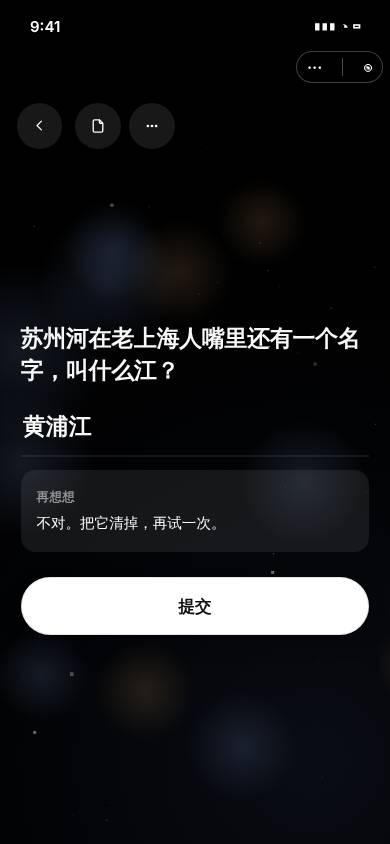
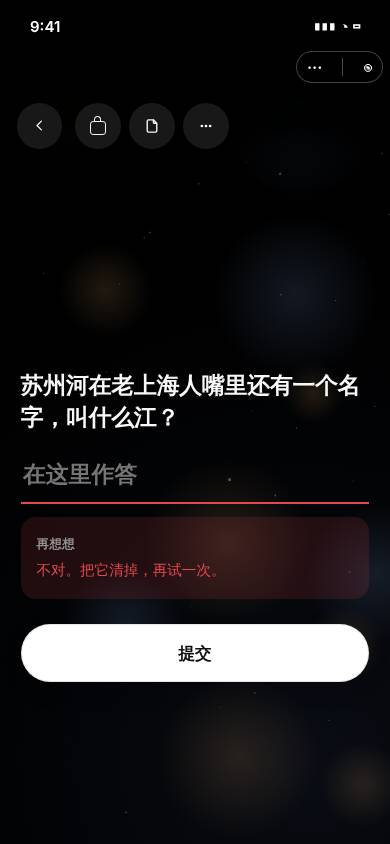
docs: P-10 进阶打字题答错截图按修复后提交重拍
Claude-Session: https://claude.ai/code/session_01SUD7bN3eSi4HuTrjhLm6Ka

diff --git a/docs/delivery/walk-fix-20261102/l1-play/RIG-NOTES.md b/docs/delivery/walk-fix-20261102/l1-play/RIG-NOTES.md
@@ -127,3 +127,7 @@ With no ending, playing and finishing the station creates no route session. The 
 - Real-device taps, the native map, GPS and timing of animations. P-13's pulsing is judged from two still frames only.
 - P-35 was seen as a toast in the rig's `showToast` rendering. P-08 and P-35 were run only with one player per session.
 - 「我到了」 self check-in (club sessions have no gather lat/lng, a known issue) was not used. The leader started without arrivals.
+
+P-10 re-shoot: `P-10-after-2.jpg` and `P-10-after-3.jpg` now come from commit **2110aafb6ffbff5988a3f2a907763783a86e3797**. Only the mpweb bundle was rebuilt from that commit's `chengyinhub-xcx`; the backend jar is still 0abf58c3.
+Fresh run on the same rig data: new club session activity 16 on theme 990019, player walk-player-2 (member 990006), `shift-session 16`, leader `lead/start` and unlock 51→52. Station 86 (advanced TYPE).
+First live wrong submit (黄浦江, attempts 1) and second (长江, attempts 2) each show a red underline, the box cleared, and a red bar 「再想想 / 不对。把它清掉，再试一次。」. This replaces Finding 1 above, which described commit 0abf58c3.
